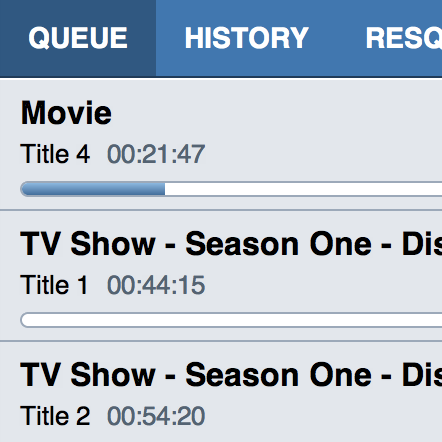
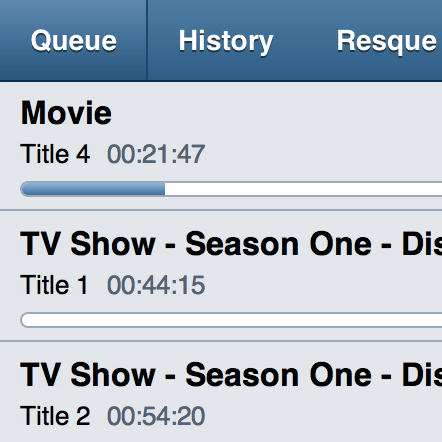
Added Redis Browser. Style tweaks.

Changed region(s): [[0.0, 0.0, 1.0, 0.2059]]

diff --git a/index.html b/index.html
@@ -20,13 +20,20 @@ title: Home
 	<p class="subtitle">Manage your Google Reader subscriptions</p>
 </div>
 <div class="span-6 project last">
+	<a href="https://github.com/benubois/redis-browser">
+		<img src="/img/project_redis_browser.png" width="222" height="222" class="tile" />
+		<span class="title">Redis Browser</span>
+	</a>
+	<p class="subtitle">Browser based redis viewer</p>
+</div>
+<hr class="space" />
+<div class="span-6 project">
 	<a href="https://github.com/benubois/steamy">
 		<img src="/img/project_steamy.png?v=3" width="222" height="222" class="tile" />
 		<span class="title">steamy</span>
 	</a>
 	<p class="subtitle">Fast database dumps</p>
 </div>
-<hr class="space" />
 <div class="span-6 project">
 	<a href="https://github.com/benubois/pmail">
 		<img src="/img/project_pmail.png?v=3" width="222" height="222" class="tile" />
@@ -34,7 +41,7 @@ title: Home
 	</a>
 	<p class="subtitle">Command line Postmark</p>
 </div>
-<div class="span-6 project">
+<div class="span-6 project last">
 	<a href="https://github.com/flickerbox/dashboard">
 		<img src="/img/project_dashboard.png?v=2" width="222" height="222" class="tile" />
 		<span class="title">Dashboard</span>

diff --git a/css/master.css b/css/master.css
@@ -144,6 +144,7 @@ header {
 	border-bottom: 1px solid #cac8c6;
 	padding: 8px 0;
 	line-height: 1;
+	background-color: #DBDBDB;
 }
 header p {
 	margin-bottom: 0;
